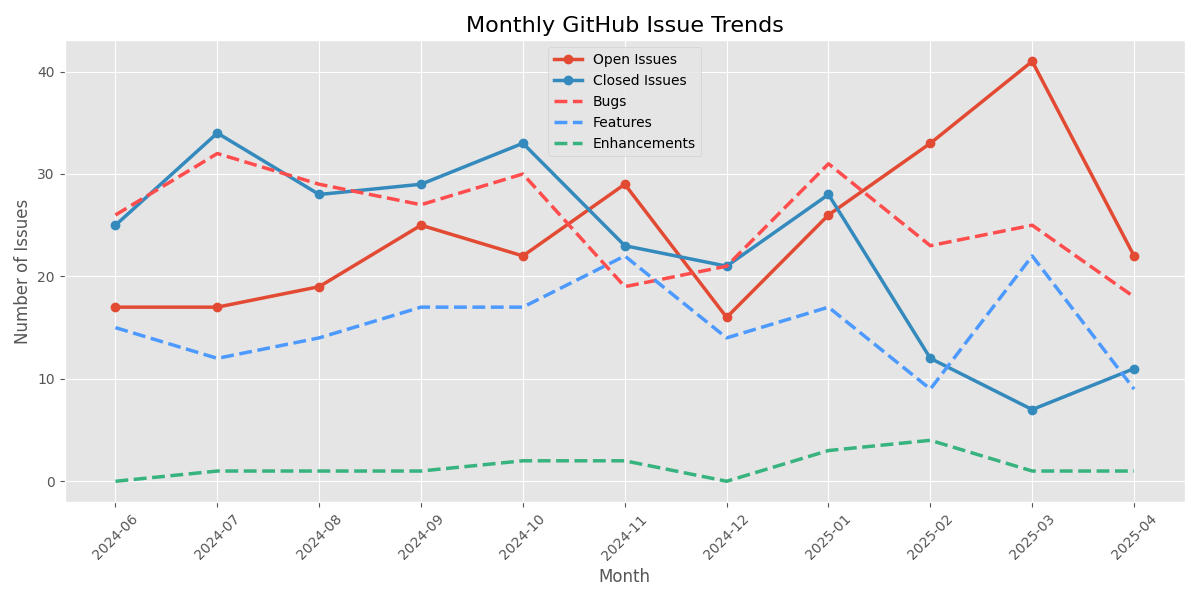
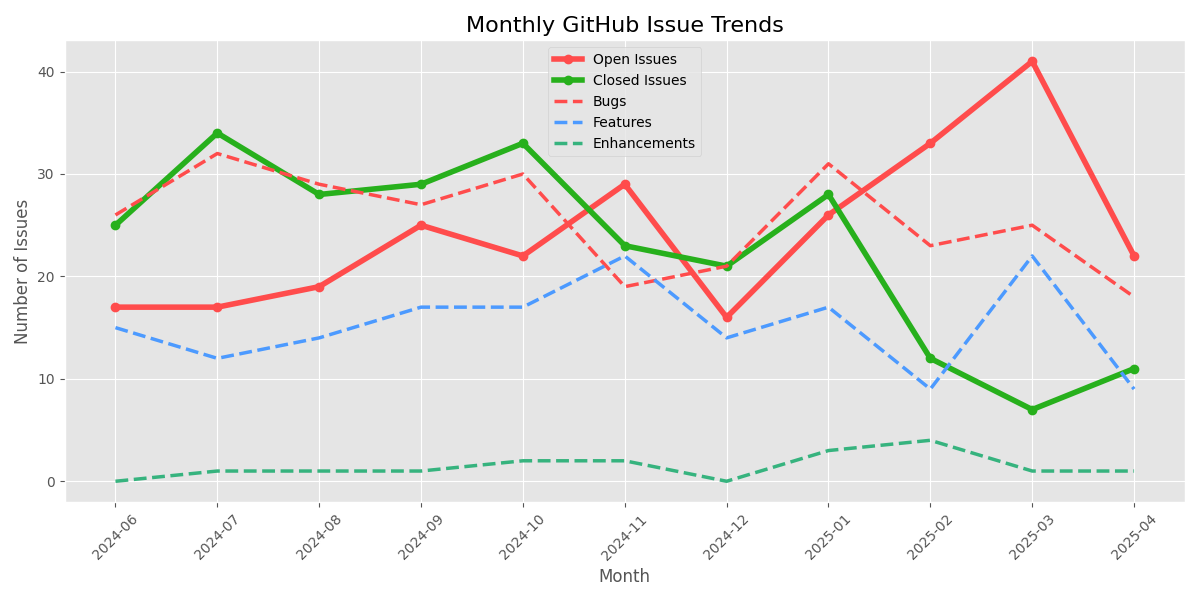
wip

diff --git a/scripts/util/plot.py b/scripts/util/plot.py
@@ -24,6 +24,8 @@ color_map = {
     "sink: aws_s3": "#FFC107",
     "sink: splunk_hec": "#27b01c",
     "domain: external_docs": "#9C27B0",
+    "open_issues":  "#FF4C4C",
+    "closed_issues": "#27b01c",
     # Add more as needed
 }
 
@@ -63,8 +65,8 @@ def plot_monthly_summary(path, start_date=None):
         plt.figure(figsize=(12, 6))
         plt.style.use("ggplot")
 
-        plt.plot(df["month"], df["open_issues"], label="Open Issues", linewidth=2.5, marker='o')
-        plt.plot(df["month"], df["closed_issues"], label="Closed Issues", linewidth=2.5, marker='o')
+        plt.plot(df["month"], df["open_issues"], label="Open Issues", color=color_map.get("open_issues"), linewidth=4, marker='o')
+        plt.plot(df["month"], df["closed_issues"], label="Closed Issues", color=color_map.get("closed_issues"), linewidth=4, marker='o')
         plt.plot(df["month"], df["bugs"], label="Bugs", color=color_map.get("type: bug"), linewidth=2.5, linestyle='--')
         plt.plot(df["month"], df["features"], label="Features", color=color_map.get("type: feature"), linewidth=2.5, linestyle='--')
         plt.plot(df["month"], df["enhancements"], label="Enhancements", color=color_map.get("type: enhancement"), linewidth=2.5, linestyle='--')
